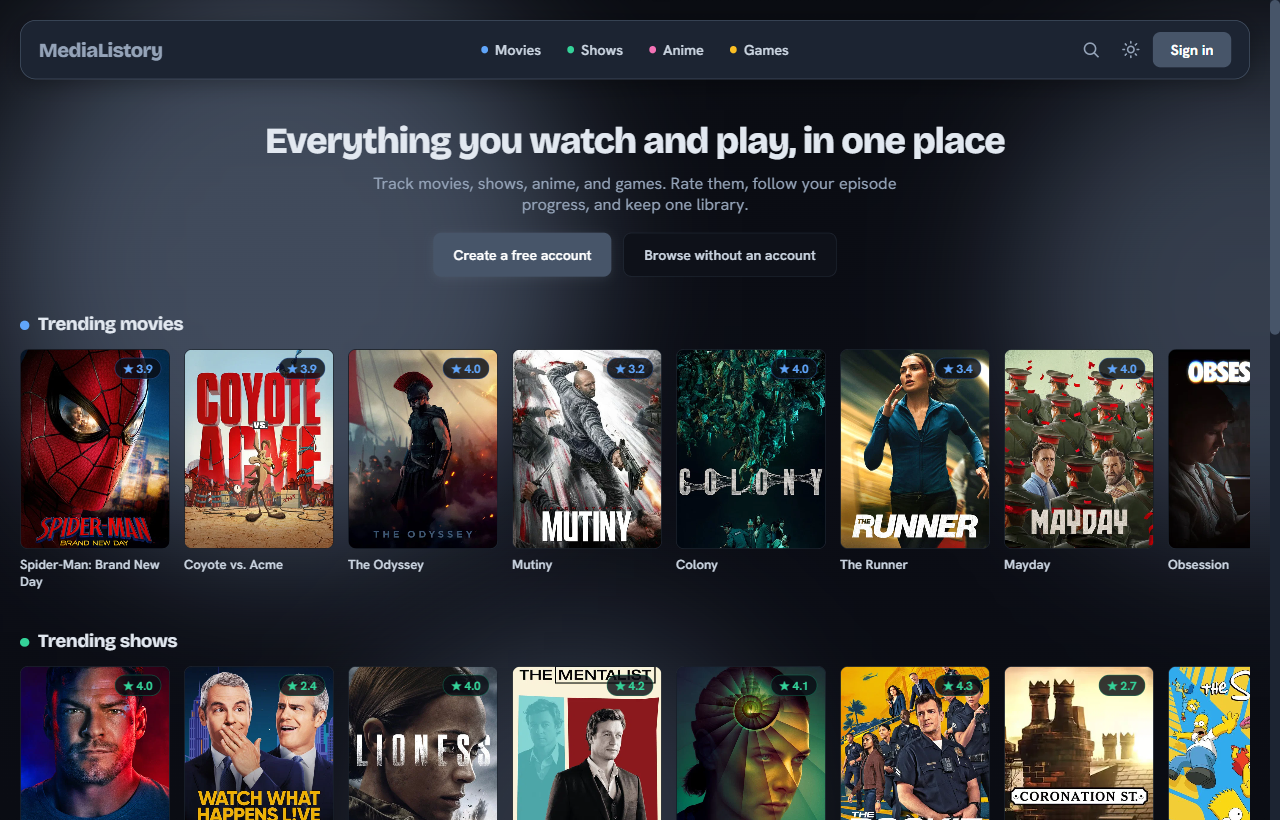
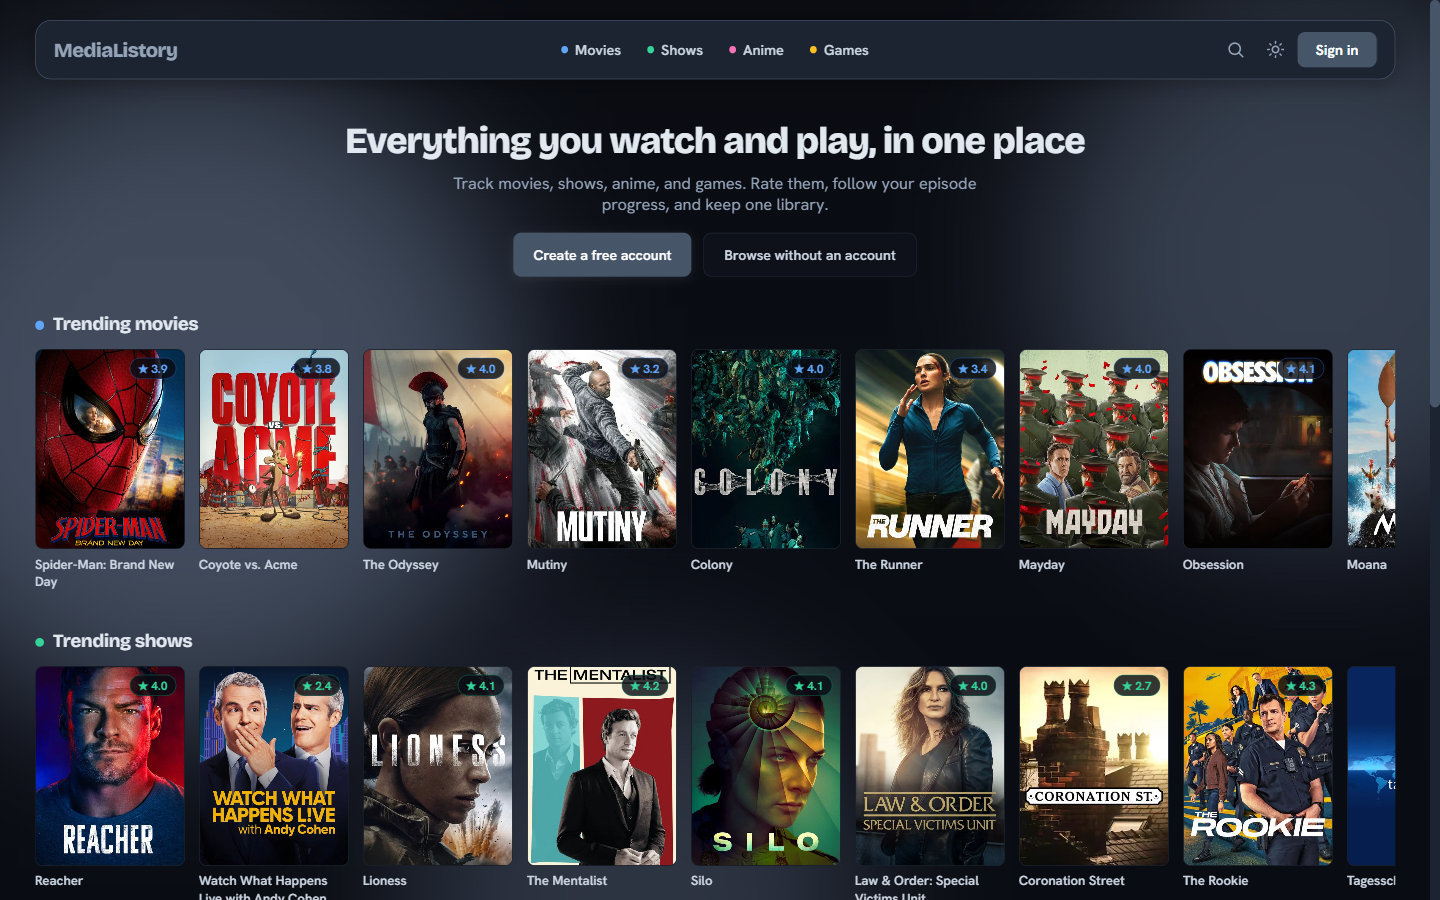
Reshoot the screenshots and add the missing community files
The screenshots in the README were stale and two of them were of
signed-in pages that no longer look like that. Replaces all four with
fresh 1440x900 captures of the live site: the home page, the Movies page
with its filter panel open, a title opened in the detail overlay, and
the Games page showing that each category carries its own accent.

Rewrites the tour around those captures so each one is introduced by
what it actually demonstrates, and adds CONTRIBUTING.md and
CODE_OF_CONDUCT.md, which the repo was missing now that it is public.
CONTRIBUTING documents the checks CI really runs, including the
Linux casing trap that catches most Windows contributors.

diff --git a/README.md b/README.md
@@ -1,17 +1,16 @@
 <p align="center">
-  <img src="docs/assets/logo.png" alt="" width="96" height="96">
+  <img src="docs/assets/logo.png" alt="" width="88" height="88">
 </p>
 
 <h1 align="center">MediaListory</h1>
 
-<p align="center">One library for the movies, shows, anime, and games you go through.</p>
-
 <p align="center">
+  One library for the movies, shows, anime, and games you go through.<br>
   <a href="https://medialistory.vercel.app"><b>medialistory.vercel.app</b></a>
 </p>
 
 <p align="center">
-  <a href="https://github.com/Gr33nOps/medialistory/actions"><img src="https://img.shields.io/github/actions/workflow/status/Gr33nOps/medialistory/ci.yml?branch=main&style=flat-square&label=CI" alt="CI status"></a>
+  <a href="https://github.com/Gr33nOps/medialistory/actions/workflows/ci.yml"><img src="https://img.shields.io/github/actions/workflow/status/Gr33nOps/medialistory/ci.yml?branch=main&style=flat-square&label=CI" alt="CI status"></a>
   <a href="package.json"><img src="https://img.shields.io/badge/node-%3E%3D18-339933?style=flat-square&logo=node.js&logoColor=white" alt="Node 18 or newer"></a>
   <a href="LICENSE"><img src="https://img.shields.io/badge/license-MIT-blue?style=flat-square" alt="MIT license"></a>
 </p>
@@ -20,39 +19,40 @@ MediaListory started as a game tracker and grew into one place for everything I 
 
 You can browse the whole thing without an account. Sign in when you want to start saving.
 
-The app is live at [medialistory.vercel.app](https://medialistory.vercel.app) and this repository is the code behind it, MIT licensed. If you only came to look, the tour below is the whole story. If you came to run it, skip to [Running it yourself](#running-it-yourself).
+This repository is the app itself, MIT licensed. The tour below is the short version; [Running it yourself](#running-it-yourself) is the long one.
 
 ## A look around
 
-**You land on a dashboard, not a search box.** What you are in the middle of sits at the top, with a one tap "+1 episode" on anything you are partway through, and each category brings its own trending row underneath.
+You land on trending, not on an empty search box. Each category gets its own row, and nothing here is gated: browsing, searching, and opening a title all work signed out.
 
-![The MediaListory dashboard, showing in-progress titles above per-category trending rows](docs/screenshots/home.png)
+![The MediaListory home page, with trending movies and trending shows in separate rows](docs/screenshots/home.png)
 
-**Each category browses on its own terms.** Movies and shows come from TMDB, anime from Kitsu, games from IGDB, and each one only offers the filters its provider genuinely supports. Search is resolved server side, so an exact title match comes back first instead of whatever happened to be on the page you were looking at.
+Every category browses on its own terms, because every provider does. Movies and shows come from TMDB, anime from Kitsu, games from IGDB, and each page only offers the filters its provider genuinely supports. Nothing is filtered client side after the fact, so an exact title match comes back first instead of whatever happened to be on the page you were already looking at.
 
-![Browsing movies with genre, year, and rating filters applied](docs/screenshots/browse.png)
+![The Movies page with the filter panel open, showing genre, year, rating, length, and language](docs/screenshots/browse.png)
 
-**Open anything for the full picture:** cast, trailer, where you can watch or play it, ratings, and a few similar titles to go to next. Adding it to your library takes a status, a score out of ten, and a review if you feel like writing one.
+Open a title and you get the whole record without leaving the grid: genres, director and studio, runtime, the synopsis, a trailer, where to watch it, and a few things to go to next. Saving it takes a status, a score out of ten, and a review if you feel like writing one.
 
-![A movie detail page with cast, trailer, and watch providers](docs/screenshots/detail.png)
+![The Odyssey opened in a detail overlay, showing metadata, synopsis, and trailer](docs/screenshots/detail.png)
 
-**At the end of a year you get to look back on it:** hours, top genres, how your scores are distributed, and where your time actually went by category.
+The four categories are not skins over one page. Each carries its own accent color throughout, so you always know where you are: blue for movies, green for shows, pink for anime, amber for games.
 
-![The stats page, showing hours watched, top genres, and a score distribution](docs/screenshots/stats.png)
+![The Games page, the same layout carrying an amber accent instead of blue](docs/screenshots/games.png)
 
 ## What you can do
 
-Track movies, shows, anime, and games in one library, with a status, a score out of ten, and an optional review on anything. Shows and anime also keep episode progress. Custom lists can mix any of the four.
+Track movies, shows, anime, and games in one library, with a status, a score out of ten, and an optional review on anything. Shows and anime keep episode progress, with a one tap "+1" on whatever you are partway through. Custom lists can mix all four.
 
 Beyond that:
 
-- Search across all four categories from the nav, with `/` or `Ctrl-K` to focus it
-- Filter and sort by what each provider actually exposes: genre, year, rating, language, and runtime for movies and shows; season, format, and age rating for anime; platform and game mode for games
+- Search every category at once from the nav, with `/` or `Ctrl-K` to jump into it
+- Filter and sort on what each provider actually exposes: genre, year, rating, language, and runtime for movies and shows; season, format, and age rating for anime; platform and game mode for games
 - See a release calendar of what is coming next, merged across categories and grouped by month
-- Import a collection from Letterboxd, MAL, or Trakt CSV, or a MediaListory JSON export, with a per row match preview before anything is saved
+- Look back on a year: hours, top genres, score distribution, and where the time went by category
+- Import from a Letterboxd, MAL, or Trakt CSV, or a MediaListory JSON export, with a per row match preview before anything is written
 - Follow people, keep your profile public or private, and see what they finished or rated
 - Sign in with email and password, or with Google or GitHub
-- Switch between light and dark, on desktop or phone, with each category carrying its own accent color
+- Switch between light and dark, on desktop or phone
 
 Admin and moderator dashboards ship with it for handling reports and bans.
 
@@ -68,7 +68,7 @@ Movie and TV data from [TMDB](https://www.themoviedb.org/), anime from [Kitsu](h
 
 A plain HTML, CSS, and JavaScript frontend on a Node and Express API, with **Neon Postgres** behind it. No build step and no frontend framework. Email and password identity comes from Neon Auth; Google and GitHub sign-in runs as a direct OAuth2 code exchange on the API.
 
-The deploy is split: the static frontend runs on **Vercel** and calls the API on **Render** cross origin. Render can also serve the frontend itself as a same origin fallback. The app mints its own session JWT in an httpOnly cookie, and because the API runs the OAuth2 exchange itself, sessions survive the Vercel to Render split.
+The deploy is split. The static frontend runs on **Vercel** and calls the API on **Render** cross origin, and Render can also serve the frontend itself as a same origin fallback. The app mints its own session JWT in an httpOnly cookie, and because the API performs the OAuth2 exchange itself, sessions survive that split.
 
 ### Media model
 
@@ -87,15 +87,15 @@ cp .env.example .env
 npm install
 ```
 
-1. Fill `.env` from [`.env.example`](.env.example): Neon `DATABASE_URL`, Neon Auth, JWT, Twitch/IGDB, and TMDB. Kitsu needs no key, and Google/GitHub OAuth is optional. Get the database string from the Neon Console under Connect, and the auth values from `neon neon-auth status --project-id <id> --branch production`.
-2. Apply the schema to Neon: [`DB/schema.postgres.sql`](DB/schema.postgres.sql), then the migrations in [`DB/migrations/`](DB/migrations/) in order. Run them through `neon psql` or the Neon SQL editor; see [`DB/README.md`](DB/README.md).
+1. Fill `.env` from [`.env.example`](.env.example): Neon `DATABASE_URL`, Neon Auth, JWT, Twitch/IGDB, and TMDB. Kitsu needs no key, and Google/GitHub OAuth is optional. The database string comes from the Neon Console under Connect, and the auth values from `neon neon-auth status --project-id <id> --branch production`.
+2. Apply the schema to Neon: [`DB/schema.postgres.sql`](DB/schema.postgres.sql), then the migrations in [`DB/migrations/`](DB/migrations/) in order, through `neon psql` or the Neon SQL editor. See [`DB/README.md`](DB/README.md).
 3. Start it:
 
 ```bash
 npm start
 ```
 
-Open [http://localhost:3000](http://localhost:3000).
+Then open [localhost:3000](http://localhost:3000).
 
 | Command | What it does |
 |---------|--------------|
@@ -108,13 +108,13 @@ Do not set `ALLOW_DEGRADED=1` in production. It lets the server boot with a brok
 
 ## Deploy
 
-**Render (API).** A web service running `npm start`, with the environment from `.env.example`. Use the Neon **pooled** `DATABASE_URL` (`...-pooler...neon.tech/neondb?sslmode=require&channel_binding=require`), plus `NEON_AUTH_BASE_URL`, `NEON_AUTH_JWKS_URL`, `JWT_SECRET`, IGDB, and TMDB. For social sign-in add `GOOGLE_CLIENT_ID`/`GOOGLE_CLIENT_SECRET` and `GITHUB_CLIENT_ID`/`GITHUB_CLIENT_SECRET`. Set `FRONTEND_URL=https://medialistory.vercel.app`, including the scheme, so CORS and OAuth redirects point at the frontend.
+**Render (API).** A web service running `npm start`, with the environment from `.env.example`. Use the Neon **pooled** `DATABASE_URL` (`...-pooler...neon.tech/neondb?sslmode=require&channel_binding=require`), plus `NEON_AUTH_BASE_URL`, `NEON_AUTH_JWKS_URL`, `JWT_SECRET`, IGDB, and TMDB. For social sign-in add `GOOGLE_CLIENT_ID`/`GOOGLE_CLIENT_SECRET` and `GITHUB_CLIENT_ID`/`GITHUB_CLIENT_SECRET`. Set `FRONTEND_URL=https://medialistory.vercel.app`, scheme included, so CORS and OAuth redirects point at the frontend.
 
 **Vercel (frontend).** A static deploy of `Frontend/` per [`vercel.json`](vercel.json), no build step. The API origin is set in [`Frontend/common.js`](Frontend/common.js) and allowed in the Vercel CSP `connect-src`.
 
-**OAuth apps.** Register the redirect URIs against the **API origin**, not the frontend: `https://medialistory.onrender.com/api/auth/oauth/google/callback` and `.../github/callback`. The API runs the code exchange and redirects back to `FRONTEND_URL`.
+**OAuth apps.** Register the redirect URIs against the **API origin**, not the frontend: `https://medialistory.onrender.com/api/auth/oauth/google/callback` and the matching `/github/callback`. The API runs the exchange and redirects back to `FRONTEND_URL`.
 
-Health probes: `/health` for liveness, `/ready` for database and IGDB reachability. Full procedures in [`docs/runbook.md`](docs/runbook.md).
+Health probes are `/health` for liveness and `/ready` for database and IGDB reachability. Full procedures live in [`docs/runbook.md`](docs/runbook.md).
 
 ## Maintenance
 
@@ -141,7 +141,11 @@ MediaListory/
 └── .github/          CI and issue templates
 ```
 
-Reference: [API contracts](docs/API.md) · [OpenAPI spec](docs/openapi.yaml) · [Runbook](docs/runbook.md) · [Security policy](SECURITY.md)
+Reference: [API contracts](docs/API.md) · [OpenAPI spec](docs/openapi.yaml) · [Runbook](docs/runbook.md)
+
+## Contributing
+
+Issues and pull requests are welcome. [CONTRIBUTING.md](CONTRIBUTING.md) covers the setup, what CI will check, and how the code is laid out. Security issues go through [SECURITY.md](SECURITY.md) rather than the public tracker.
 
 ## License
 

diff --git a/CONTRIBUTING.md b/CONTRIBUTING.md
@@ -1,0 +1,46 @@
+# Contributing
+
+Thanks for taking a look. Issues and pull requests are both welcome, including small ones.
+
+If you have found a security problem, do not open an issue. Follow [SECURITY.md](SECURITY.md) instead.
+
+## Getting it running
+
+[The README](README.md#quick-start) has the full setup. The short version is that you need Node 18 or newer, a `.env` filled in from [`.env.example`](.env.example), and a Neon Postgres database with the schema applied.
+
+There is no build step. The frontend is plain HTML, CSS, and JavaScript served straight out of `Frontend/`, so editing a file and reloading the page is the whole loop. `npm run dev` restarts the API on change.
+
+You need real API keys for the parts you are touching. TMDB covers movies and shows, IGDB covers games (through a Twitch client ID and secret), and Kitsu needs no key at all, so anime work is the cheapest to get started on.
+
+## What CI will check
+
+Everything below runs on every push and pull request, and all of it can be run locally first.
+
+- `npm test`, which is the unit and smoke suites
+- **Case-sensitive path checks.** CI runs on Linux, and most contributors are not. A `require('./Library')` or a `src="Common.js"` that works on Windows or macOS will fail the build. The smoke suite asserts that every entry file resolves with the exact casing on disk.
+- **Relative `API_BASE`.** The frontend must not hardcode an API origin. The check fails if it finds one.
+- **Boot check.** The server is started with no environment and is expected to exit rather than come up half-working.
+- **Semgrep SAST** over `Backend/` and `Frontend/`, which fails on any `WARNING` or `ERROR` finding. If you hit a genuine false positive, suppress that one line with a `nosemgrep` comment and say in the comment why it is safe. The exact command is in the README.
+
+`npm run test:e2e` runs the Playwright suite. It is worth running if you touched a user flow, though CI runs it in its own workflow.
+
+## Writing the code
+
+Match what is already in the file you are editing. The codebase is deliberately plain: no framework, no bundler, and no new dependency unless it genuinely earns its place. If you are adding a route, look at how the neighbouring routes in `Backend/` are put together and follow that shape.
+
+A few conventions that are easy to trip over:
+
+- **No em dashes**, anywhere: not in the UI, not in docs, not in comments. Use commas, colons, or a full stop.
+- New media categories go in as another `media_type` value, not as a new table. The [media model section](README.md#media-model) explains why.
+- Anything user-facing needs to work signed out, or fail gracefully when it cannot.
+- Keep light and dark both working. Each category has its own accent color, so check your change against more than one.
+
+## Commits and pull requests
+
+Write commit subjects as a plain sentence saying what changed, in the present tense, the way the existing history reads: "Land on the dashboard after signing in, not the Games page". No prefixes or tags. Put the reasoning in the body when the subject cannot carry it.
+
+Keep a pull request to one thing. The template asks for a summary and a test plan; filling both in honestly, including what you did not test, is more useful than ticking every box.
+
+## Reporting a bug
+
+Use the issue template and include what you did, what happened, and what you expected. Say which category you were in, since movies, shows, anime, and games each come from a different provider and bugs are frequently specific to one of them.

diff --git a/CODE_OF_CONDUCT.md b/CODE_OF_CONDUCT.md
@@ -1,0 +1,21 @@
+# Code of Conduct
+
+MediaListory is a small project maintained by one person. This document is short because the expectations are simple.
+
+## What is expected
+
+Be straightforward and be civil. Assume the person on the other end is acting in good faith and has less context than you do. Criticise the code, the design, or the decision, never the person who wrote it. If you disagree, say what you would do instead and why.
+
+Remember that most people here are doing this in their spare time. A pull request that sits for a while has not been ignored on purpose.
+
+## What is not acceptable
+
+Harassment of any kind. Personal attacks, insults, or demeaning comments. Sexual language or imagery. Discrimination or slurs relating to age, body, disability, ethnicity, gender identity or expression, nationality, appearance, race, religion, or sexual orientation. Publishing anyone's private information without their permission. Sustained disruption of issues or discussions.
+
+This applies to issues, pull requests, commit messages, code comments, and anywhere else the project is being discussed.
+
+## Enforcement
+
+Report a problem by emailing the maintainer through the address on the [Gr33nOps GitHub profile](https://github.com/Gr33nOps), or by opening a private security advisory if you would rather it not be visible. Reports are read by the maintainer and are not shared further.
+
+Depending on what happened, the response may be a warning, having a comment removed, or being blocked from the repository. Serious or repeated behaviour goes straight to a block.

diff --git a/SECURITY.md b/SECURITY.md
@@ -4,7 +4,7 @@
 
 If you find a security issue in MediaListory, please **do not open a public issue**.
 Instead, report it privately via GitHub's
-[**Report a vulnerability**](https://github.com/Gr33nOps/medialistory-code/security/advisories/new)
+[**Report a vulnerability**](https://github.com/Gr33nOps/medialistory/security/advisories/new)
 (Security → Advisories), which opens a private channel with the maintainer.
 
 Please include:
